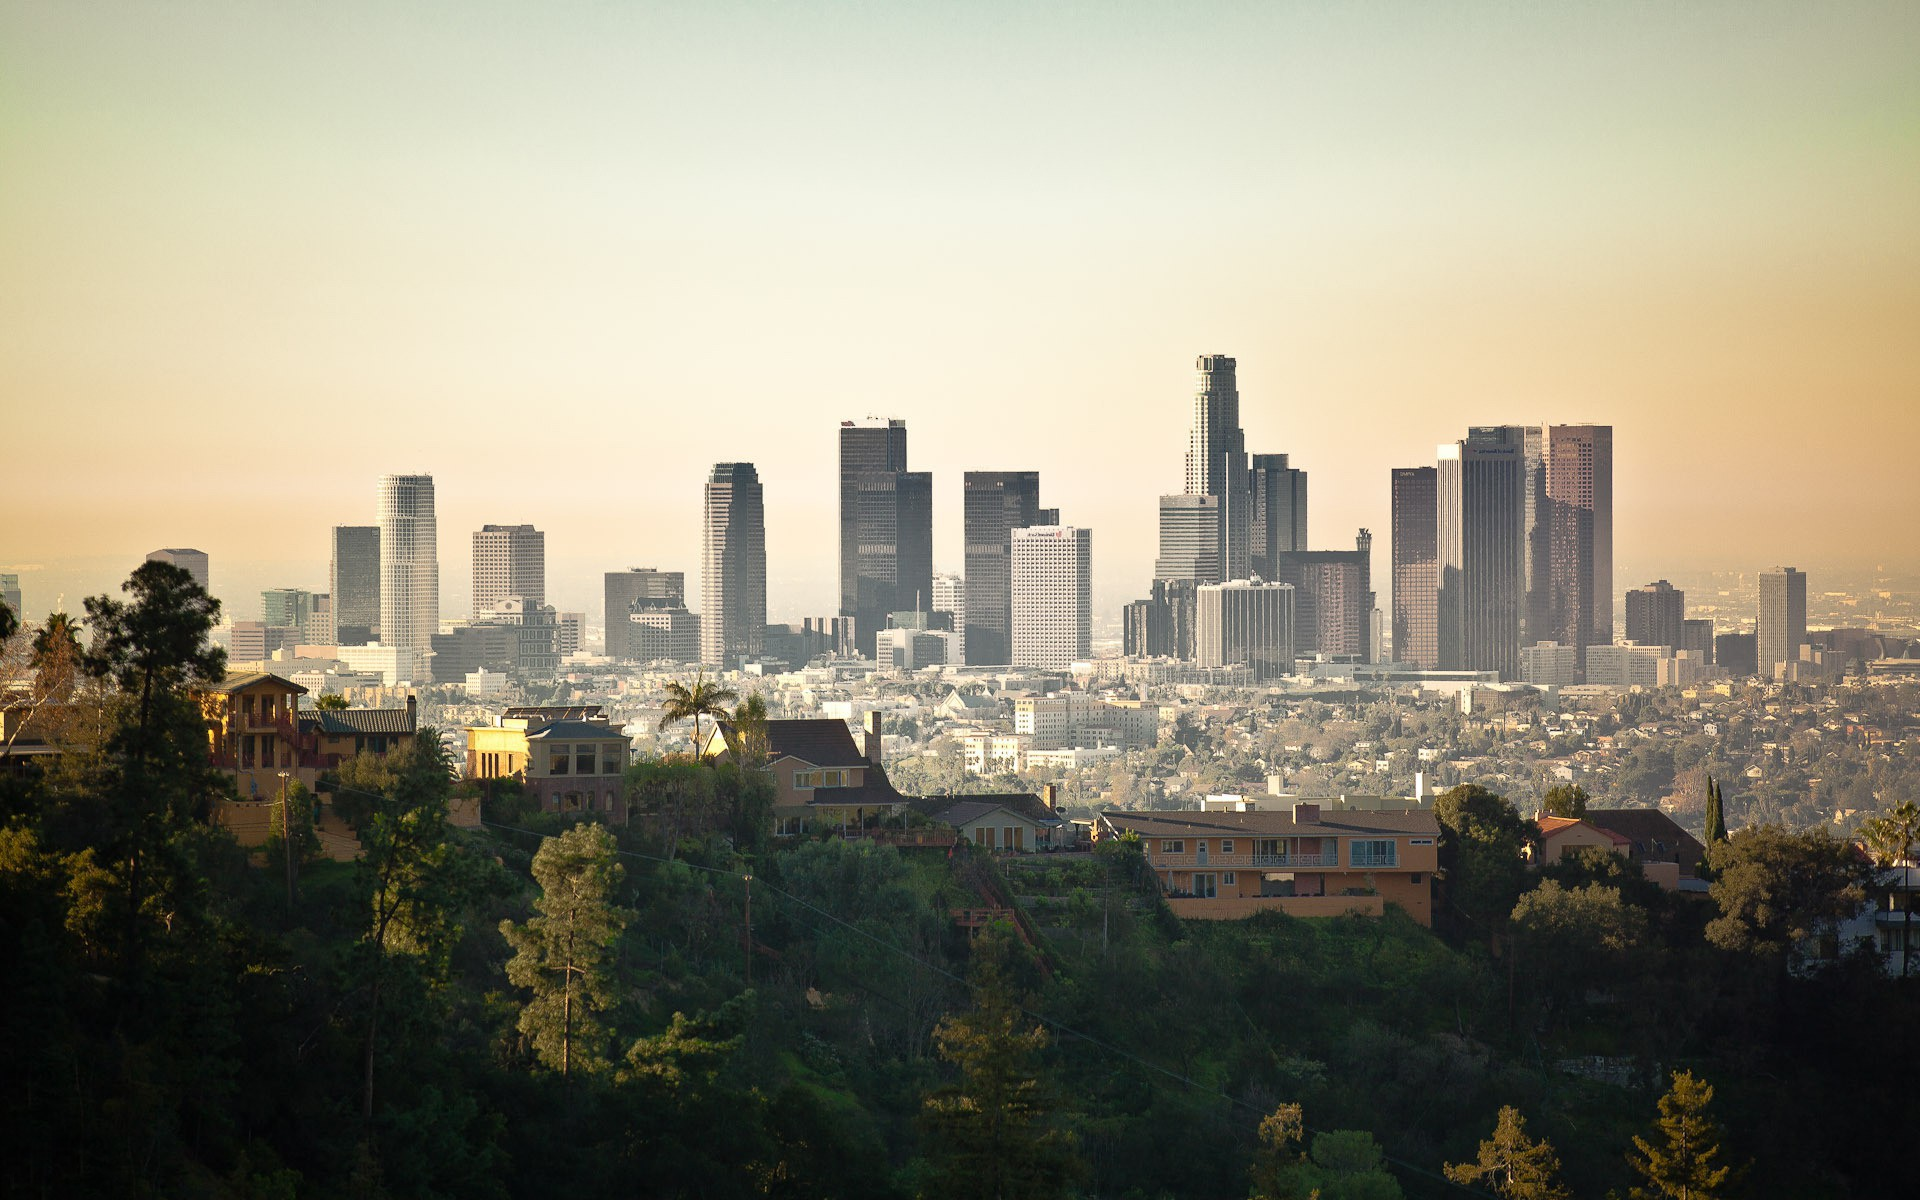
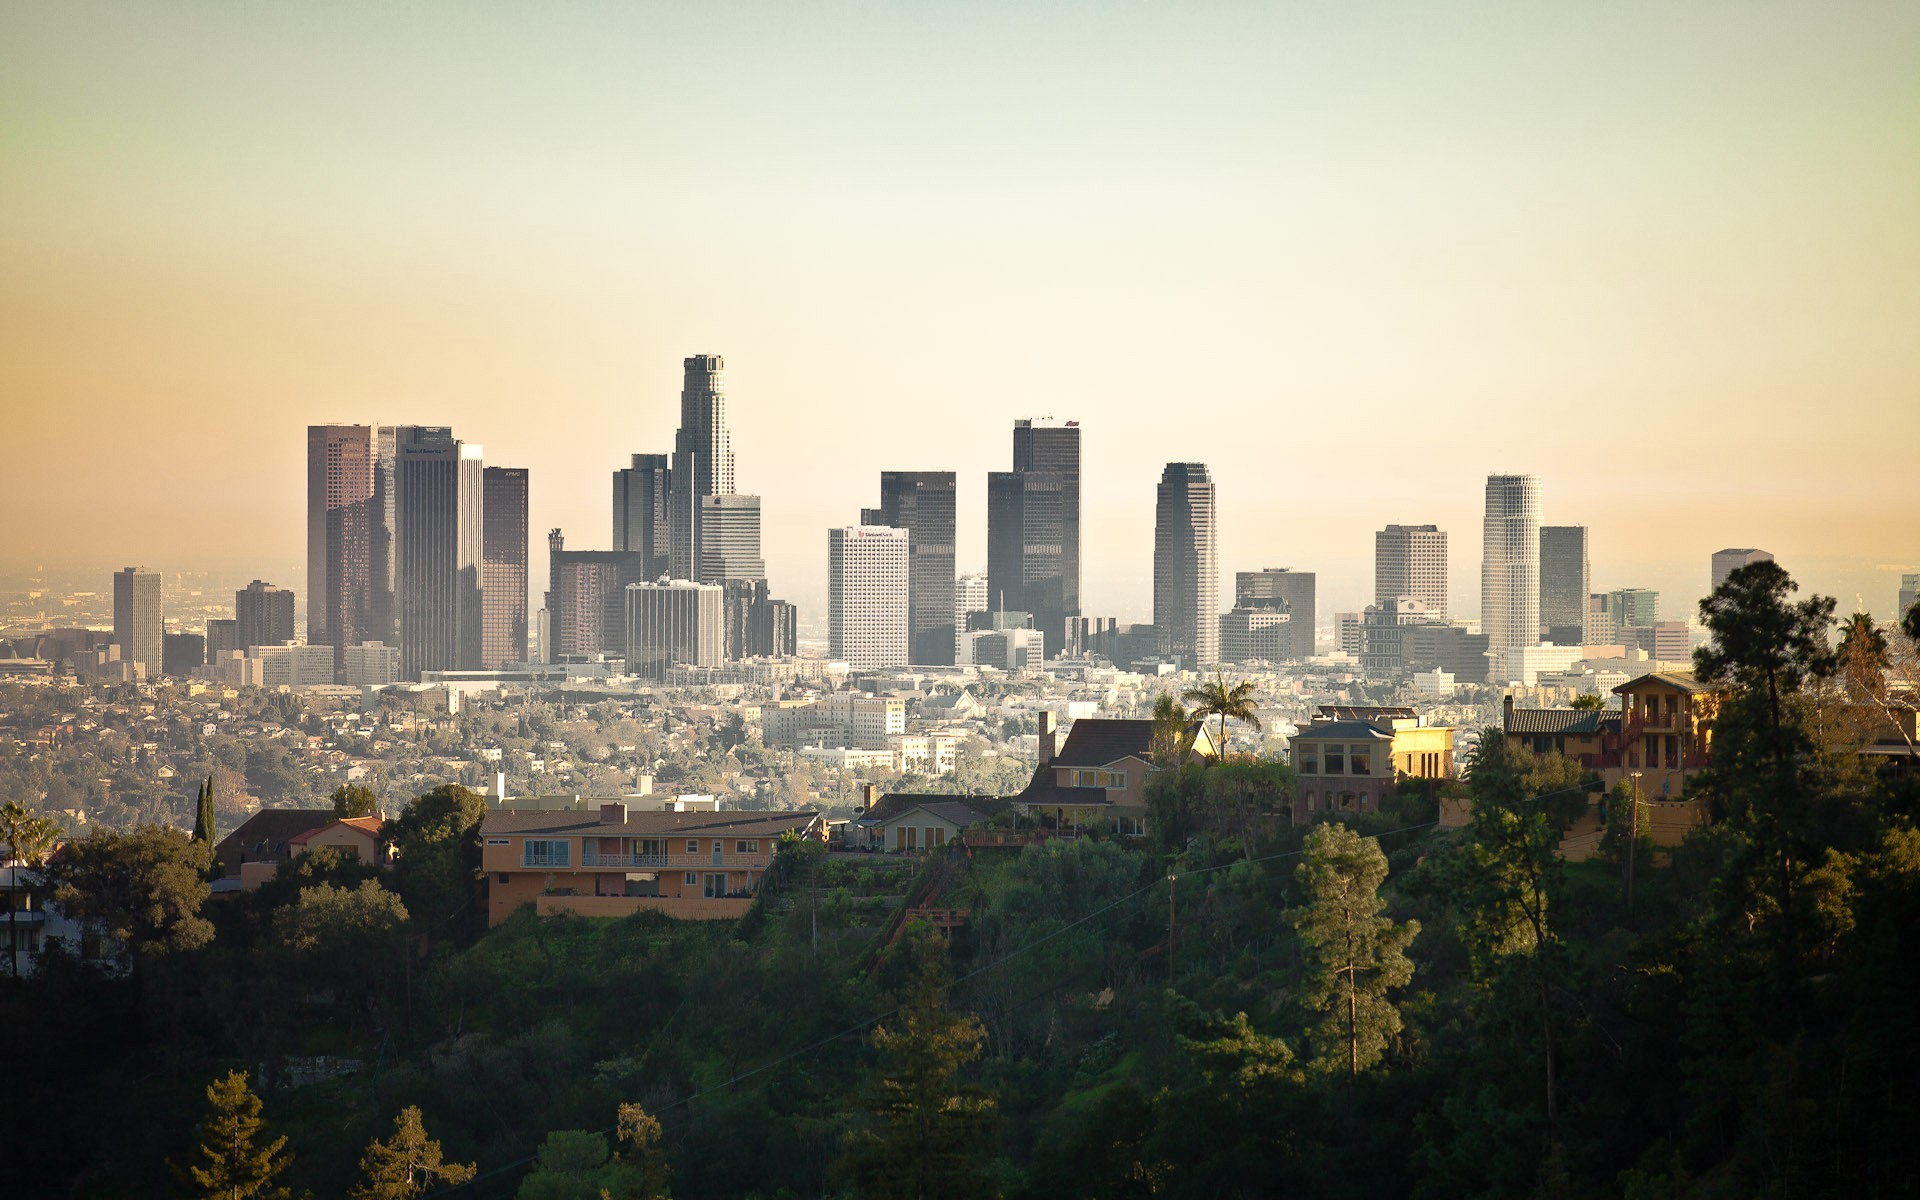
slideshow

diff --git a/client/src/components/Navbar.js b/client/src/components/Navbar.js
@@ -1,44 +1,42 @@
-import React from "react";
-import { Link } from "react-router-dom";
+import '../style/navbar.css';
+import React, { Component } from 'react';
+import { Link } from 'react-router-dom';
+import MenuItem from './navMenuItem';
 
-const Navbar = () => {
-  return (
-    <nav className="navbar navbar-expand-sm bg-dark navbar-dark fixed-top">
-      <div className="container">
-        <Link to="/" className="navbar-brand">
-          <img src="https://via.placeholder.com/50x50" className="image-fluid" alt="logo" /> LIMITLESS ESTATES
-      </Link>
-        <button className="navbar-toggler" type="button" data-toggle="collapse" data-target="#navbar" aria-controls="mobile-navbar" aria-expanded="false" aria-label="Toggle navigation">
-          <span className="navbar-toggler-icon"></span>
-        </button>
-        <div className="collapse navbar-collapse" id="navbarCollapse">
-          <ul className="navbar-nav ml-auto">
-            <li className="nav-item">
-              <Link to="/" className="nav-link">HOME</Link>
-            </li>
-            <li className="nav-item">
-              <Link to="/about" className="nav-link">ABOUT</Link>
-            </li>
-            <li className="nav-item">
-              <Link to="/markets" className="nav-link">MARKETS</Link>
-            </li>
-            <li className="nav-item">
-              <Link to="/resources" className="nav-link">RESOURCES</Link>
-            </li>
-            <li className="nav-item">
-              <Link to="/services" className="nav-link">SERVICES</Link>
-            </li>
-            <li className="nav-item">
-              <Link to="/faq" className="nav-link">FAQ</Link>
-            </li>
-            <li className="nav-item">
-              <Link to="/contact" className="nav-link">CONTACT</Link>
-            </li>
-          </ul>
+
+class Navbar extends Component {
+  renderMenu() {
+    const fields = ['home', 'about us', 'markets', 'resources', 'contact'];
+    return fields.map((item) => (
+      <li key={item} className="nav-item">
+        <MenuItem field={item} className="nav-link"/>
+      </li>
+    ));
+  }
+  render() {
+    return (
+      <nav className="navbar navbar-expand-sm navbar-dark bg-dark">
+        <div className="container">
+          <Link to="/" className="navbar-brand">
+            Limitless Estates, LLC
+          </Link>
+
+          <button className="navbar-toggler" data-toggle="collapse" data-target="#nbNav">
+            <span className="navbar-toggler-icon"></span>
+          </button>
+
+          <div className="collapse navbar-collapse" id="nbNav">
+            <ul className="navbar-nav ml-auto">
+              {this.renderMenu()}
+            </ul>
+          </div>
         </div>
-      </div>
-    </nav>
-  );
+      </nav>
+    )
+  }
 }
 
 export default Navbar;
+
+
+

diff --git a/client/src/components/v2/SlideShow/index.js b/client/src/components/v2/SlideShow/index.js
@@ -6,20 +6,21 @@ class SlideShow extends Component {
     return (
       <section id="asdf">
       <div id="myCarousel" className="carousel slide" data-ride="carousel">
-       
+        {/* ___ bottom of slideshow */}
         <ol className="carousel-indicators">
           <li data-target="#myCarousel" data-slide-to="0" className="active"></li>
           <li data-target="#myCarousel" data-slide-to="1"></li>
           <li data-target="#myCarousel" data-slide-to="2"></li>
         </ol>
-          <div className="carousel-inner">
+        {/* main slide show */}
+        <div className="carousel-inner">
             <div className="carousel-item carousel-image-1 active">
             <div className="dark-overlay">
               <div className="container">
                   <div className="carousel-caption d-none d-sm-block text-right mb-5">
                     <h1 className="display-3">Heading One</h1>
                     <p className="lead">Lorem ipsum dolor sit amet, consectetur adipisicing elit. Recusandae consequuntur architecto eius magni nobis nulla eaque. Deserunt sunt, distinctio quos.</p>
-                    <a className="btn btn-danger btn-lg">Sign Up Now</a>
+                    <button className="btn btn-outline-primary btn-lg">Learn More</button>
                   </div>
               </div>
             </div>
@@ -29,10 +30,10 @@ class SlideShow extends Component {
           <div className="carousel-item carousel-image-2">
             <div className="dark-overlay">
             <div className="container">
-              <div className="carousel-caption d-none d-sm-block mb-5">
-                <h1 className="display-3">Heading Two</h1>
-                <p className="lead">Lorem ipsum dolor sit amet, consectetur adipisicing elit. Recusandae consequuntur architecto eius magni nobis nulla eaque. Deserunt sunt, distinctio quos.</p>
-                <a href="#" className="btn btn-primary btn-lg">Learn More</a>
+              <div className="carousel-caption d-none d-sm-block text-right mb-5">
+                <h1 className="display-3">"Mission Statement Here"</h1>
+                <p className="lead">~Lalita Patipaksiri, Co-Founder</p>
+                    <button className="btn btn-outline-danger btn-lg">Learn More</button>
               </div>
             </div>
               </div>
@@ -49,7 +50,7 @@ class SlideShow extends Component {
             </div>
           </div>
         </div>
-
+        {/* < and > controls */}
         <a href="#myCarousel" data-slide="prev" className="carousel-control-prev">
           <span className="carousel-control-prev-icon"></span>
         </a>

diff --git a/client/src/style/slideshow.css b/client/src/style/slideshow.css
@@ -1,20 +1,20 @@
 
 .carousel-item {
 
-  height: 450px; }
+  height: 468px; }
 
 
   
 .carousel-image-1 {
-  background: url("/img/background/la.jpg");
+  background: url("/img/img4.jpg") no-repeat center 12%;
   background-size: cover; }
 
 .carousel-image-2 {
-  background: url("/img/image2.jpg");
+  background: url("/img/img1.jpg") no-repeat center 50%;
   background-size: cover; }
 
 .carousel-image-3 {
-  background: url("/img/image3.jpg");
+  background: url("/img/image5.jpg") no-repeat center 70%;
   background-size: cover; }
 
 /* #myCarousel {
@@ -25,7 +25,7 @@
 }
 .dark-overlay {
   position: absolute;
-  background-color: rgba(0, 0, 0, 0.6);
+  background-color: rgba(0,0,0,0.49);
   top: 0;
   left: 0;
   width: 100%;

diff --git a/client/src/components/App.js b/client/src/components/App.js
@@ -12,14 +12,14 @@ import { BrowserRouter, Route } from "react-router-dom";
 
 /* Version 2 */
 import LandingPage from './v2/LandingPage';
-import Navbar from './v2/Navbar-v2';
+import Navbar from './Navbar';
 
 class App extends Component {
   render() {
     return (
       <BrowserRouter>
         <div>
-          <Navbar/>
+          <Navbar />
             <Route exact path="/" component={LandingPage} />
             {/* <Route path="/about" component={About}/>
             <Route path="/contact" component={Contact}/>
